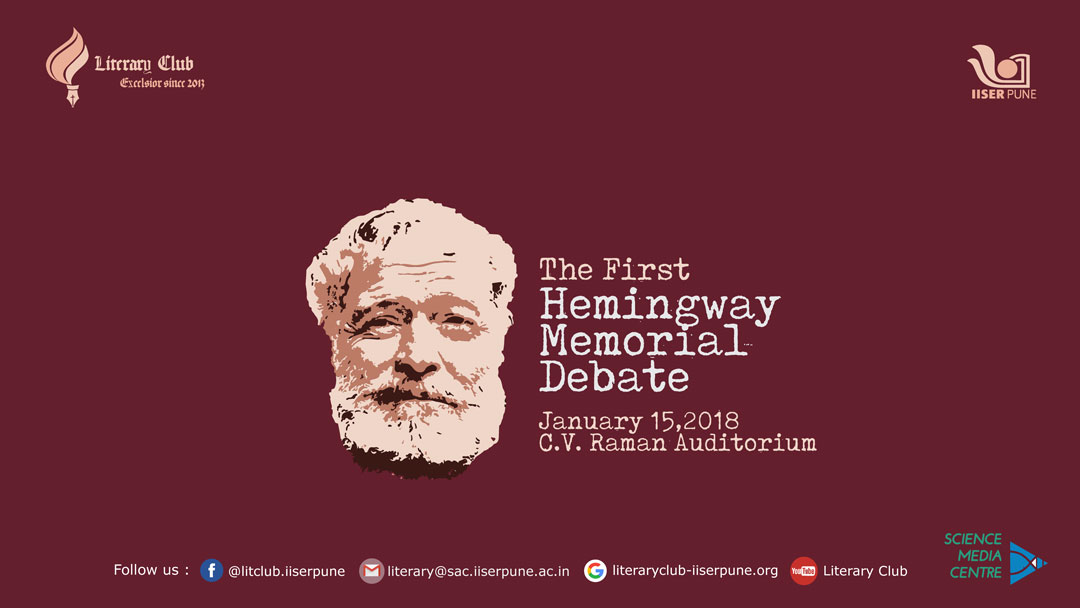
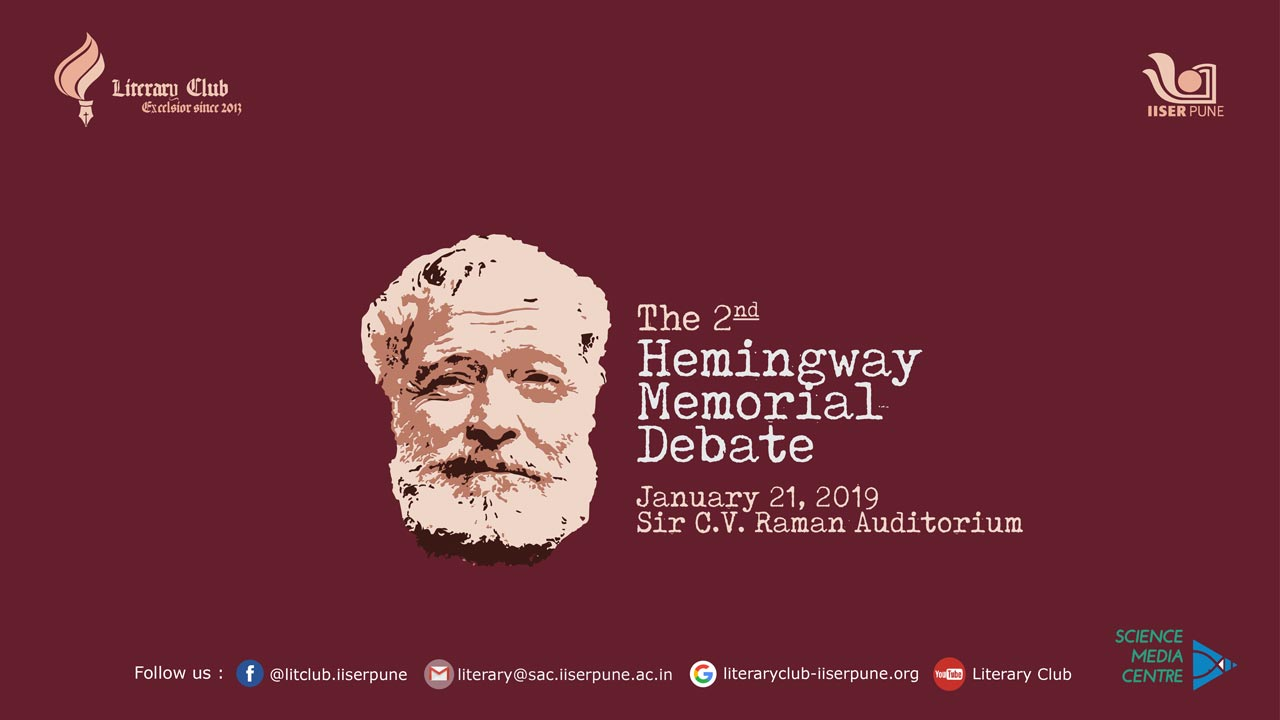
Revisions regarding HMD 2.0

diff --git a/events.html b/events.html
@@ -11,7 +11,7 @@
 </head>
 <body>
   <header>
-    <span id="s1"><img src="imago/icon.png" alt="Lit Club Logo" title=";)"/></span>
+    <span id="s1"><img src="imago/anonymous.png" alt="Lit Club Logo" title=";)"/></span>
     <span id="s1alt"><img src="imago/litlogo1.png" alt="Lit Club Logo" title=";)"/></span>
     <span id="h1"><img src="imago/header.png" alt="The Literary Club"/></span>
     <span id="s2"><a href="http://www.iiserpune.ac.in/" target="_blank"><img src="imago/iiserpunelogo.svg" alt="IISER-P Logo" /></a></span>
@@ -117,18 +117,22 @@
         The Lit Club takes significant inspiration from his 'straightforward prose, his spare dialogue, and his predilection for understatement'.
       </p>
       <p><span class="Styled"> I</span>ntroducing to IISER Pune, the motion:</p>
-      <p class="ital">This house believes that Sci Hub is a boon to science method and its dissemination.
+      <p class="ital">This house believes that The Journal Of Controversial Ideas is a beneficial addition to current scientific discourse and wider society.
       </p>
-      <p><span class="Styled"> T</span>he motion of the First Hemingway Memorial Debate as stated above is a result of the ongoing national and international discussion on the pros and cons of the websites
-        like Sci Hub. Wikipedia, an objective source states that:</p>
-      <blockquote cite="https://en.wikipedia.org/wiki/Sci-Hub">&quot;<span class="Styled"> S</span>ci-Hub is a website with over 64.5 million academic papers and articles available for direct download.
-        It bypasses publisher paywalls by allowing access through educational institution proxies. Sci-Hub stores papers in its own repository, and additionally the papers
-        downloaded by Sci-Hub are also stored in Library Genesis (LibGen).&quot; </blockquote>
-      <p><span class="Styled"> W</span>hile the answer to whether such websites are “improving” the condition of the global community of science students and scientists might seem obvious to a lot of people,
-        their recent defeat in the court of law against Elsevier publishing and various articles from major media outlets calling for their banishment are indications that the
-        discourse requires inputs from nuanced thinkers and debaters directly affected by the success or failure of these websites.</p>
+      <p><span class="Styled"> T</span>he motion of the Second Hemingway Memorial Debate as stated above is a result of the ongoing academic discussion on the pros and cons of the aptly titled
+        Journal Of Controversial Ideas. Wikipedia, an objective source states that:</p>
+      <blockquote cite="https://en.wikipedia.org/wiki/The_Journal_of_Controversial_Ideas">&quot;<span class="Styled"> T</span>he Journal of Controversial Ideas is a projected cross-disciplinary, peer-reviewed journal that
+        aims to allow academics to publish using pseudonyms if they request it. Founded in 2018 by Jeff McMahan, Francesca Minerva and Peter Singer, the first issue is expected in 2019. According
+        to McMahan, an Oxford philosopher, the journal is needed because of the fear that exists among academics about publishing articles that support certain contentious positions.
+        Minerva, a bioethicist, came up with the idea after experiencing death threats and difficulty finding employment because of an article she wrote on the ethics of newborn infanticide.&quot; </blockquote>
+      <p><span class="Styled"> T</span>his topic directly touches and puts a new spin on the evergreen and timeless debate on the limits of free speech, or indeed whether there should be
+        any limits imposed in the first place. If anything, mixing in considerations of the scientific ideal of unimpeded distribution of knowledge to the fray, adds heightened urgency to the
+        discourse, requiring inputs from nuanced thinkers and debaters who happen to be in the know.</p>
       <p><span class="Styled"> W</span>hich is why the Lit Club at IISER Pune brings to you a debate on one of the most controversial issues in science publishing with a wide array of scientists and science students
         from across scientific disciplines and academic backgrounds.
+      </p>
+      <p><span class="Styled"> T</span>he edited video capturing last year's debate can be found <a href="https://youtu.be/kMdGLU8GKO4" target="_blank"><span class="ital">here</span></a>,
+        courtesy Durgesh Ajgaonkar, Aditya Khanna and Vivek Kannadi of the Science Media Centre, IISER Pune.
       </p>
 
     </div>

diff --git a/css/event.css b/css/event.css
@@ -65,15 +65,15 @@
   }
   #BackgroundImg
   {
-    position:relative; top:-55vh; opacity:0.4;
+    position:relative; top:-55vh; opacity:0.5;
     display:inline-block; height: 160px; left: calc(50vw - 70px); width:180px;
-    background-image:url(../imago/icon.png); background-size:150px, 100px;
+    background-image:url(../imago/anonymous.png); background-size:150px, 100px;
     z-index:-0.25;
     background-repeat: no-repeat;
   }
   #d1
   {
-    width:100.07%; height:5200px; background-color: #ffffff;
+    width:100.07%; height:5650px; background-color: #ffffff;
     position:absolute; top:30vh;
   }
   #d1> img
@@ -201,7 +201,7 @@
   }
   #d1s05
   {
-    position: absolute;left:2.5vw; top:4450px;
+    position: absolute;left:2.5vw; top:4800px;
     display:inline-block; width:95vw;
   }
   #d1s05 >div
@@ -234,7 +234,7 @@
     display:inline-block;
     width:100vw; height:10vh;
     position:relative;
-    top:125vh;
+    top:185vh;
     background-color:#000000;
     color: #8a8c87; font-size:11.5px; font-family:newyorker;
     text-align: center;
@@ -314,7 +314,7 @@ body
 {
   position: relative; background-color: #ffffff;
   top: 90.5vh; clear:both; display: inline-block;
-  width:99vw; height: 4550px; z-index:0;
+  width:99vw; height: 4600px; z-index:0;
 }
 #d1> img
 {
@@ -444,7 +444,7 @@ img.curr, img.curr1, img.curr2
 
 #d1s05
 {
-  position: absolute;left:9.5vw; top:3650px;
+  position: absolute;left:9.5vw; top:3700px;
   display:inline-block; width:80vw;
 }
 #d1s05 >div

diff --git a/index.html b/index.html
@@ -11,7 +11,7 @@
 </head>
 <body>
   <header>
-    <span id="s1"><img src="imago/icon.png" alt="Lit Club Logo" title=";)"/></span>
+    <span id="s1"><img src="imago/anonymous.png" alt="Lit Club Logo" title=";)"/></span>
     <span id="s1alt"><img src="imago/litlogo1.png" alt="Lit Club Logo" title=";)"/></span>
     <span id="h1"><img src="imago/header.png" alt="The Literary Club"/></span>
     <span id="s2"><a href="http://www.iiserpune.ac.in/" target="_blank"><img src="imago/iiserpunelogo.svg" alt="IISER-P Logo" /></a></span>
@@ -25,7 +25,7 @@
   </header>
   <main>
     <span id="BackgroundImg"></span>
-    <span id="tempmsg">&quot;Hemingway Spoke.&quot;&nbsp;&nbsp;&nbsp;&nbsp;&nbsp;&nbsp;188-79.</span>
+    <span id="tempmsg">&quot;Hemingway...Mic Check.... 1 and 2 and 3&quot;</span>
     <div id="cont">
     <div id="d1">
     <aside class="left">
@@ -60,8 +60,8 @@
   </div>
     <section id="d2">
       <h2> Upcoming Events </h2>
-      <div id="e1"><span> Poetry Night</span><span> Date: 10th August</span></div>
-      <div id="e2"><span> Lit Club Orientation</span><span> Date: 3rd August</span></div>
+      <div id="e1"><span> Hemingway Mml. Debate</span><span> Date: 21st January</span></div>
+      <div id="e2"><span> Mushaira Night</span><span> Date: 25th January</span></div>
       <div id="e3"><span> ;)</span><span> Date:TBA</span></div>
     </section>
    <div id="d3">

diff --git a/opac.html b/opac.html
@@ -11,7 +11,7 @@
 </head>
 <body>
   <header>
-    <span id="s1"><img src="imago/icon.png" alt="Lit Club Logo" title=";)"/></span>
+    <span id="s1"><img src="imago/anonymous.png" alt="Lit Club Logo" title=";)"/></span>
     <span id="s1alt"><img src="imago/litlogo1.png" alt="Lit Club Logo" title=";)"/></span>
     <span id="h1"><img src="imago/header.png" alt="The Literary Club"/></span>
     <span id="s2"><a href="http://www.iiserpune.ac.in/" target="_blank"><img src="imago/iiserpunelogo.svg" alt="IISER-P Logo" /></a></span>

diff --git a/quotebox.html b/quotebox.html
@@ -11,7 +11,7 @@
 </head>
 <body>
   <header>
-    <span id="s1"><img src="imago/icon.png" alt="Lit Club Logo" title=";)"/></span>
+    <span id="s1"><img src="imago/anonymous.png" alt="Lit Club Logo" title=";)"/></span>
     <span id="s1alt"><img src="imago/litlogo1.png" alt="Lit Club Logo" title=";)"/></span>
     <span id="h1"><img src="imago/header.png" alt="The Literary Club"/></span>
     <span id="s2"><a href="http://www.iiserpune.ac.in/" target="_blank"><img src="imago/iiserpunelogo.svg" alt="IISER-P Logo" /></a></span>

diff --git a/css/main.css b/css/main.css
@@ -22,9 +22,9 @@
   }
   #BackgroundImg
   {
-    position:relative; top:-35vh; opacity:0.4;
+    position:relative; top:-35vh; opacity:0.5;
     display:inline-block; height: 160px; left: calc(50vw - 70px); width:180px;
-    background-image:url(../imago/icon.png); background-size:150px, 100px;
+    background-image:url(../imago/anonymous.png); background-size:150px, 100px;
     z-index:-0.25;
     background-repeat: no-repeat;
   }

diff --git a/css/header.css b/css/header.css
@@ -238,7 +238,7 @@ header
 }
 #s1 > img
 {
-  width: 85px; height: 80px;
+  width: 65px; height: 80px;
 }
 
 header >h1
